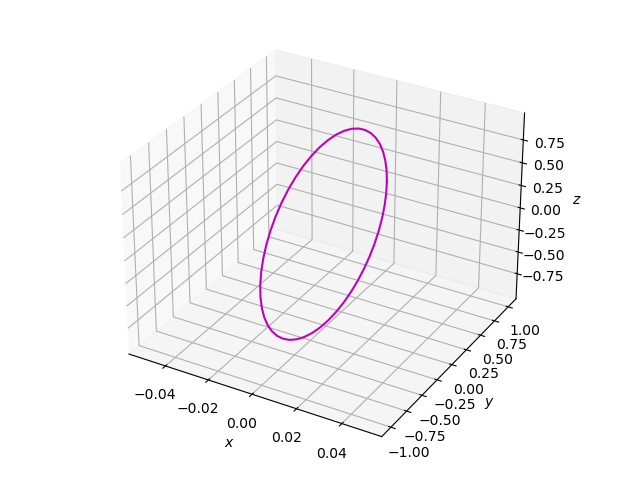
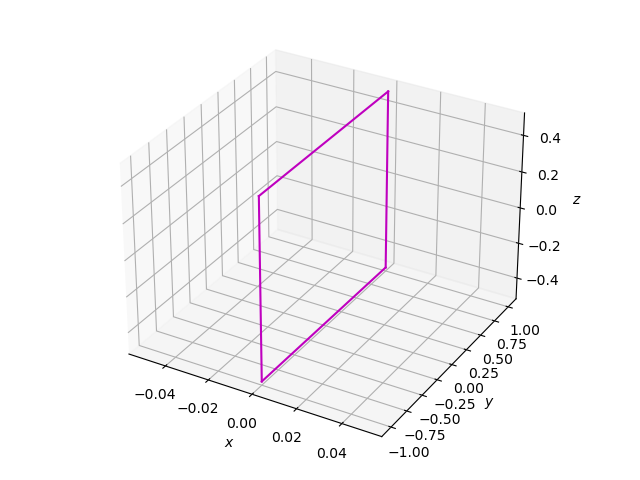
Docstrings and some plot changes

diff --git a/plot_utils.py b/plot_utils.py
@@ -1,5 +1,6 @@
 import matplotlib.pyplot as plt
 import matplotlib as mpl
+from mpl_toolkits.axes_grid1 import make_axes_locatable
 import numpy as np
 
 from utils import get_slice
@@ -42,11 +43,36 @@ def plot_coil(x : list, y : list, z : list, filename='coil.png') -> None:
     #plt.show()
 
     
-def plot_mag_phase(B_complex, slice: str, slice_loc: float, vol_res=(1, 1, 1), 
-                   bbox=(-1, -1, -1, 2, 2, 2), filename='mag_phase.png') -> None:
-    x_dim = np.arange(bbox[0], bbox[3], vol_res[0])
-    y_dim = np.arange(bbox[1], bbox[4], vol_res[1])
-    z_dim = np.arange(bbox[2], bbox[5], vol_res[2])
+def plot_mag_phase(B_complex : np.ndarray, slice: str, slice_loc: float, 
+                   vol_res=(1, 1, 1), bbox=(-1, -1, -1, 2, 2, 2), 
+                   filename='mag_phase.png') -> None:
+    '''Plot the magnitude and phase of the sensitivity map in a given plane
+
+    Parameters
+    ----------
+    B_field : np.ndarray
+        The complex phase sensitivity in a given volume. The shape is h, w, l, 3,
+        where the last dimension is the x, y, z components
+    slice : float, optional
+        The plane location. In the case of x=0, the location is 0
+    slice_loc : tuple, optional
+        The two coordinates indicating the lower left corner of the rectangle 
+    bbox : tuple, optional
+        The bounds defining the volume the B field is defined within. A tuple 
+        of the lower x, y, z bounds followed by the upper x, y, z bounds
+    vol_res : tuple, optional
+        The voxel size of the volume in which the B field is defined. A tuple of
+        the volume resolution, or voxel dimensions, in x, y, z
+    filename : str
+        The filename (indlucing the extension) of the image being saved
+
+    Returns
+    -------
+    none
+    '''
+    x_dim = np.arange(bbox[0], bbox[3] + 1e-10, vol_res[0])
+    y_dim = np.arange(bbox[1], bbox[4] + 1e-10, vol_res[1])
+    z_dim = np.arange(bbox[2], bbox[5] + 1e-10, vol_res[2])
     xv, yv, zv = np.meshgrid(x_dim, y_dim, z_dim, indexing='ij')
 
     B_slice = get_slice(B_complex, slice, slice_loc, vol_res=vol_res, bbox=bbox)
@@ -67,27 +93,65 @@ def plot_mag_phase(B_complex, slice: str, slice_loc: float, vol_res=(1, 1, 1),
         ax1 = get_slice(yv, slice, slice_loc, vol_res=vol_res, bbox=bbox)
 
     fig, axes = plt.subplots(nrows=1, ncols=2)
-    axes[0].contourf(ax1, ax2, B_mag, levels=20)
+
+    divider1 = make_axes_locatable(axes[0])
+    cax1 = divider1.append_axes('right', size='5%', pad=0.05)
+    divider2 = make_axes_locatable(axes[1])
+    cax2 = divider2.append_axes('right', size='5%', pad=0.05)
+
+    im1 = axes[0].contourf(ax1, ax2, B_mag, levels=20)
     axes[0].set_title('Magnitude')
     axes[0].set_xlabel(ax1_label + " (cm)")
     axes[0].set_ylabel(ax2_label + " (cm)")
-    axes[1].contourf(ax1, ax2, B_phase, levels=20)
+    axes[0].set_aspect('equal')
+
+    im2 = axes[1].contourf(ax1, ax2, B_phase, levels=20)
     axes[1].set_title('Phase')
     axes[1].set_xlabel(ax1_label  + " (cm)")
     axes[1].set_ylabel(ax2_label + " (cm)")
+    axes[1].set_aspect('equal')
+
+    fig.colorbar(im1, cax=cax1, orientation='vertical')
+    fig.colorbar(im2, cax=cax2, orientation='vertical')
+
     fig.tight_layout()
-    plt.savefig(filename)
+    plt.savefig(filename, bbox_inches='tight', dpi=250)
 
     
-def plot_fields(B_field, slice: str, slice_loc: float, vol_res=(1, 1, 1), 
-                   bbox=(-1, -1, -1, 2, 2, 2), filename='B_field_components.png'):
-    Bx = B_field[:,:,:,0]
-    By = B_field[:,:,:,1]
-    Bz = B_field[:,:,:,2]
+def plot_fields(B_field : np.ndarray, slice: str, slice_loc: float, 
+                vol_res=(1, 1, 1), bbox=(-1, -1, -1, 2, 2, 2), 
+                filename='B_field_components.png') -> None:
+    '''Plot the x, y, and z components of the Magnetic field.
 
-    x_dim = np.arange(bbox[0], bbox[3], vol_res[0])
-    y_dim = np.arange(bbox[1], bbox[4], vol_res[1])
-    z_dim = np.arange(bbox[2], bbox[5], vol_res[2])
+    Parameters
+    ----------
+    B_field : np.ndarray
+        The magnetic field in a given volume. The shape is h, w, l, 3, where the
+        last dimension is the x, y, z components
+    slice : float, optional
+        The plane location. In the case of x=0, the location is 0
+    slice_loc : tuple, optional
+        The two coordinates indicating the lower left corner of the rectangle 
+    bbox : tuple, optional
+        The bounds defining the volume the B field is defined within. A tuple 
+        of the lower x, y, z bounds followed by the upper x, y, z bounds
+    vol_res : tuple, optional
+        The voxel size of the volume in which the B field is defined. A tuple of
+        the volume resolution, or voxel dimensions, in x, y, z
+    filename : str
+        The filename (indlucing the extension) of the image being saved
+
+    Returns
+    -------
+    none
+    '''
+    Bx = B_field[:, :, :, 0]
+    By = B_field[:, :, :, 1]
+    Bz = B_field[:, :, :, 2]
+
+    x_dim = np.arange(bbox[0], bbox[3] + 1e-10, vol_res[0])
+    y_dim = np.arange(bbox[1], bbox[4] + 1e-10, vol_res[1])
+    z_dim = np.arange(bbox[2], bbox[5] + 1e-10, vol_res[2])
     xv, yv, zv = np.meshgrid(x_dim, y_dim, z_dim, indexing='ij')
 
     Bx_slice = get_slice(Bx, slice, slice_loc, vol_res=vol_res, bbox=bbox)
@@ -109,22 +173,30 @@ def plot_fields(B_field, slice: str, slice_loc: float, vol_res=(1, 1, 1),
 
     vmin = min(np.min(Bx_slice), np.min(By_slice), np.min(Bz_slice))
     vmax = max(np.max(Bx_slice), np.max(By_slice), np.max(Bz_slice))
-    norm = mpl.colors.Normalize(vmin=vmin, vmax=vmax)
+    norm = mpl.colors.TwoSlopeNorm(vmin=vmin, vcenter=0., vmax=vmax)
 
     fig, axes = plt.subplots(nrows=1, ncols=3)
 
-    axes[0].contourf(ax1, ax2, Bx_slice, levels=20, norm=norm, cmap='RdBu')
+    axes[0].contourf(ax1, ax2, Bx_slice, levels=20, norm=norm, cmap='RdBu_r')
     axes[0].set_title(r'$B_x$')
     axes[0].set_xlabel(ax1_label + " (cm)")
     axes[0].set_ylabel(ax2_label + " (cm)")
-    axes[1].contourf(ax1, ax2, By_slice, levels=20, norm=norm, cmap='RdBu')
+    axes[0].set_aspect('equal')
+
+    axes[1].contourf(ax1, ax2, By_slice, levels=20, norm=norm, cmap='RdBu_r')
     axes[1].set_title(r'$B_y$')
     axes[1].set_xlabel(ax1_label+ " (cm)")
     axes[1].set_ylabel(ax2_label + " (cm)")
-    axes[2].contourf(ax1, ax2, Bz_slice, levels=20, norm=norm, cmap='RdBu')
+    axes[1].set_aspect('equal')
+
+    divider = make_axes_locatable(axes[2])
+    cax = divider.append_axes('right', size='5%', pad=0.05)
+    axes[2].contourf(ax1, ax2, Bz_slice, levels=20, norm=norm, cmap='RdBu_r')
     axes[2].set_title(r'$B_z$')
     axes[2].set_xlabel(ax1_label + " (cm)")
     axes[2].set_ylabel(ax2_label + " (cm)")
-    fig.colorbar(mpl.cm.ScalarMappable(norm=norm, cmap='RdBu'), cax=None)
+    axes[2].set_aspect('equal')
+
+    fig.colorbar(mpl.cm.ScalarMappable(norm=norm, cmap='RdBu_r'), cax=cax)
     fig.tight_layout()
-    plt.savefig('B_field_components.png')
+    plt.savefig(filename, bbox_inches='tight', dpi=250)

diff --git a/utils.py b/utils.py
@@ -1,3 +1,4 @@
+from collections.abc import Iterable
 import matplotlib.pyplot as plt
 import matplotlib as mpl
 import numpy as np
@@ -111,9 +112,10 @@ def B_volume(t: smp.core.symbol.Symbol, x: smp.core.symbol.Symbol,
     dBydt = smp.lambdify([t, x, y, z], integrand[1])
     dBzdt = smp.lambdify([t, x, y, z], integrand[2])
 
-    x_dim = np.arange(bbox[0], bbox[3], vol_res[0])
-    y_dim = np.arange(bbox[1], bbox[4], vol_res[1])
-    z_dim = np.arange(bbox[2], bbox[5], vol_res[2])
+    # add small tolerance to endpoint so it's included
+    x_dim = np.arange(bbox[0], bbox[3] + 1e-10, vol_res[0])
+    y_dim = np.arange(bbox[1], bbox[4] + 1e-10, vol_res[1])
+    z_dim = np.arange(bbox[2], bbox[5] + 1e-10, vol_res[2])
     xv, yv, zv = np.meshgrid(x_dim, y_dim, z_dim, indexing='ij')
 
     B_field_fn = np.vectorize(B, signature='(),(),()->(n)', 
@@ -161,8 +163,25 @@ def get_slice(data_volume: np.ndarray, slice: str, slice_loc: float,
         return data_volume[:, :, min_ind]
     
 
-def return_coords(fns: list, t : smp.core.symbol.Symbol, inputs : list|np.ndarray) -> tuple:
-    '''Return x, y, z coords from a lambdified function
+def return_coords(fns: list, t : smp.core.symbol.Symbol, inputs : Iterable) -> tuple:
+    '''Return lists of x, y, z coords from a list of lambdified functions
+
+    Parameters
+    ----------
+    fns : list
+        This is a list of lambdified functions. Generally, the list will only be
+        length > 1 if the function you are trying to represent is piecwise
+    t : smp.core.symbol.Symbol
+        The parametrization parameter
+    inputs : Iterable
+        The values taken on by t
+    
+    Returns
+    -------
+    tuple
+        A tuple of size 3 containing lists of x, y, and z coordinates for your
+        function at t = inputs. This is useful for plotting your function
+    
     '''
     xs = []
     ys = []

diff --git a/biot_savart.py b/biot_savart.py
@@ -14,10 +14,10 @@ from sympy_utils import create_sympy_circle, create_sympy_rectangle
 from plot_utils import plot_coil, plot_mag_phase, plot_fields
 from sympy.plotting import plot3d_parametric_line
 
-piecewise = False
+piecewise = True
 
 t, x, y, z = smp.symbols('t, x, y, z')
-bbox=(1, -5, -1, 6, 5, 1)
+bbox=(1, -5, -1, 10, 5, 1)
 vol_res=(0.5, 0.5, 0.5)
 radius = 1  # for circles
 height, width = 2, 1  # for rectangles
@@ -26,19 +26,8 @@ if piecewise is True:
     # get l, the distance from the origin to the wire
     ls = create_sympy_rectangle(t, height, width, 'x', 0, loc=(-0.5, -1), 
                                 rotate_axis='x', rotate_angle=smp.pi/2)  # loc in y, z coords
-    #TODO wrap this all up into a fuction that accepts any number of piecwise components
-    #np_fn1 = smp.lambdify(t, ls[0])
-    #np_fn2 = smp.lambdify(t, ls[1])
-    #np_fn3 = smp.lambdify(t, ls[2])
-    #np_fn4 = smp.lambdify(t, ls[3])
-#
     t_range = np.linspace(0, 1, 50)
-    #x1, y1, z1 = return_coords(np_fn1, t_range)
-    #x2, y2, z2 = return_coords(np_fn2, t_range)
-    #x3, y3, z3 = return_coords(np_fn3, t_range)
-    #x4, y4, z4 = return_coords(np_fn4, t_range)
     xs, ys, zs = return_coords(ls, t, t_range)
-
     plot_coil(xs, ys, zs, 'coil.png')
 
     B_field = B_volume_piecewise(t, x, y, z, ls, [1, 1, 0, 0], [0, 0, 1, 1], 
@@ -54,7 +43,11 @@ else:
 
     B_field = B_volume(t, x, y, z, l, 0, 2*np.pi, bbox=bbox, vol_res=vol_res)
 
-B_complex = B_field[:,:,:,0] - 1j * B_field[:,:,:,1]
+B_complex = B_field[:, :, :, 0] - 1j * B_field[:, :, :, 1]
 
-plot_mag_phase(B_complex, 'z', 0, vol_res=vol_res, bbox=bbox)
-plot_fields(B_field, 'z', 0, vol_res=vol_res, bbox=bbox)
+
+slice = 'z'
+slice_loc = 0
+
+plot_mag_phase(B_complex, slice, slice_loc, vol_res=vol_res, bbox=bbox)
+plot_fields(B_field, slice, slice_loc, vol_res=vol_res, bbox=bbox)
